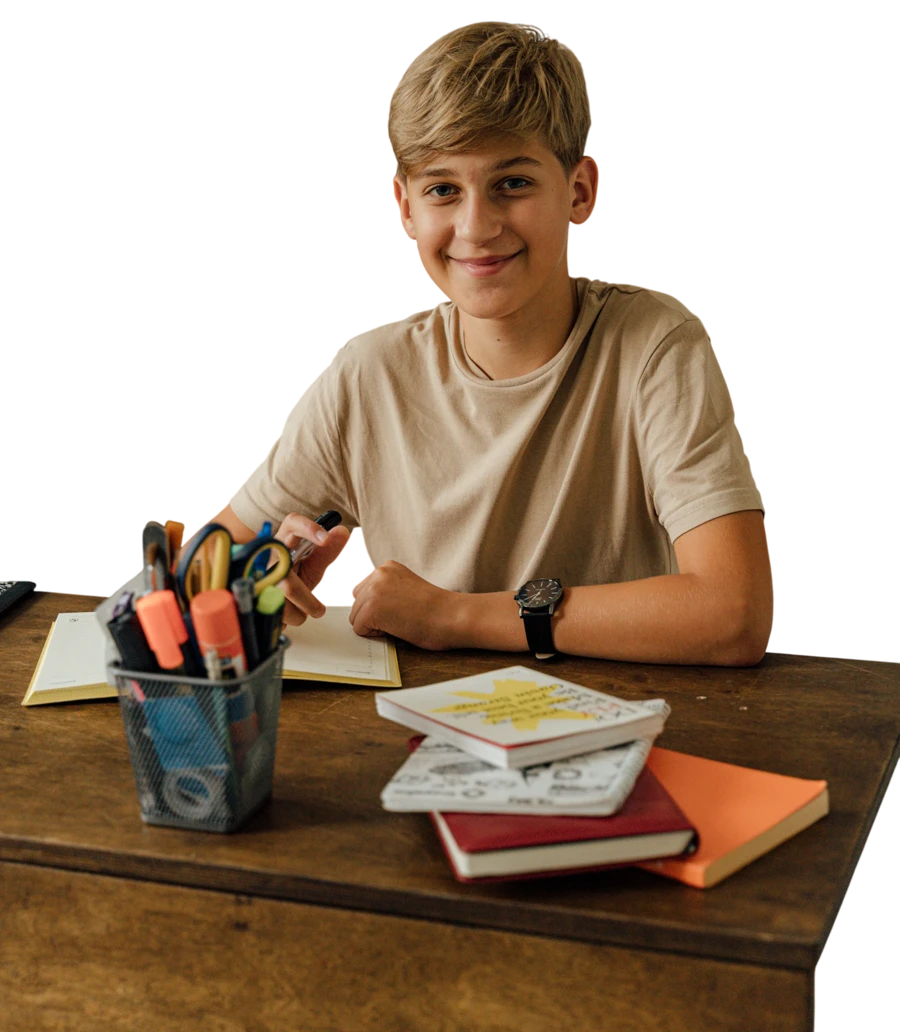
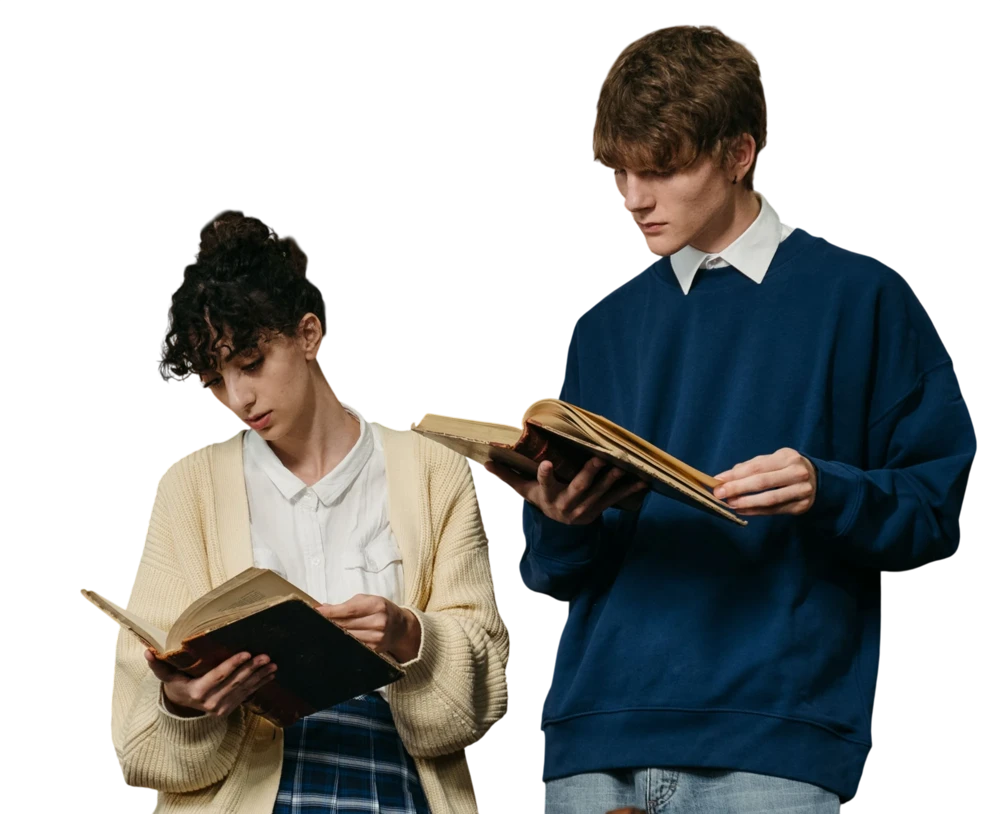
Вернуть прежнее фото парня для взрослых; в школе — фото двух подростков в hero
english-for-adults.html: hero-фото вернулось к прежней версии (парень
один за столом) — новое фото с двумя людьми с книгами туда не подошло.

school-english.html: hero-фото заменено с портрета одного мальчика на
фото двух подростков с книгой (то самое фото, которое пробовали для
взрослых) — лучше подходит смыслу страницы.

diff --git a/school-english.html b/school-english.html
@@ -170,7 +170,7 @@ button{font-family:inherit}
         <a href="https://t.me/thearbeiter01" target="_blank" rel="noopener" class="btn-ghost">Написать менеджеру</a>
       </div>
     </div>
-    <div class="hero-photo" style="min-width:0;align-self:stretch"><img class="hero-photo-img" src="images/school-hero.webp" alt="Подросток делает домашнее задание по английскому языку"></div>
+    <div class="hero-photo" style="min-width:0;align-self:stretch"><img class="hero-photo-img" src="images/school-hero.webp" alt="Двое подростков занимаются английским языком"></div>
   </div>
 </section>
 
